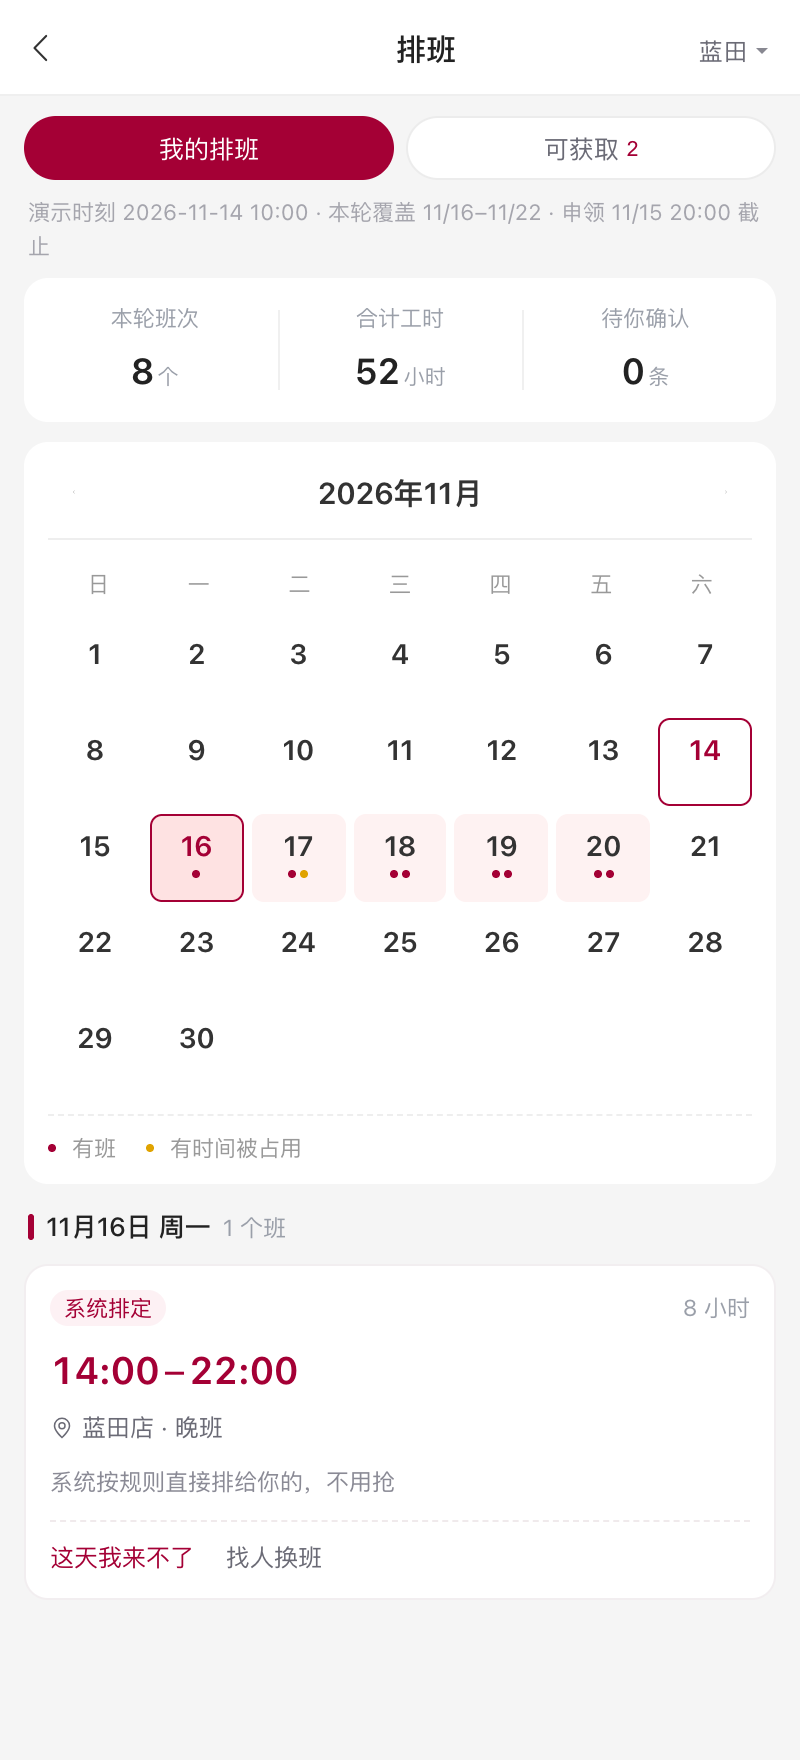
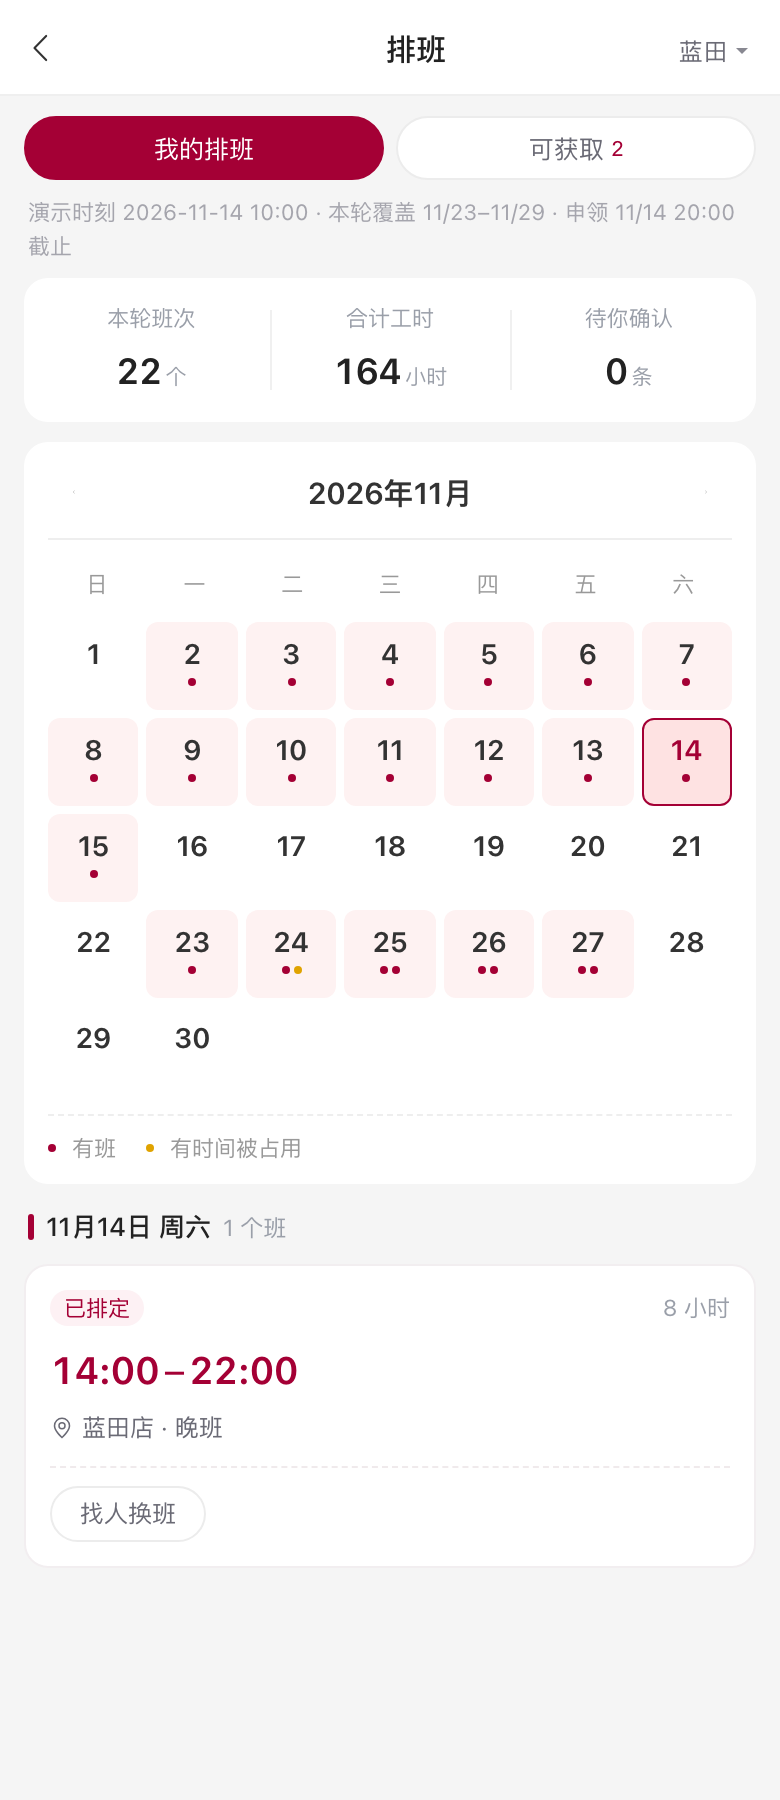
文档 6.5 移动端 16 张截图全部重截并核对图注
- 截图按现有种子状态重取：申领弹层改用蓝田周日 11-29（周六通班种子已登记、按钮变拿不了，弹层点不出）
- 图注与画面核对修正三处：抢确认是两条当场检查不是三条；非全推拿可获取屏只显示早/晚班（通班/加场在周末日期）；叶青可获取显示的是他那档窗口已开的周期时段，不是三档卡
- 其余 13 张画面与图注一致

diff --git a/src/views/hr-schedule/sections/HS65Mobile.vue b/src/views/hr-schedule/sections/HS65Mobile.vue
@@ -109,8 +109,8 @@
 
       <h4 class="h4sub">非全推拿师（门店）——先到先得 + 申领混合</h4>
       <DocScreens mode="phone" :images="[
-        { src: mTuinaPtPick, label: '可获取：早/晚班先到先得 + 通班申领 + 临时加场，一张卡一种拿法' },
-        { src: mGrabSheet, label: '抢确认：当场生效的三条检查（不撞车 / 剩余名额），先到先得点了就成' }
+        { src: mTuinaPtPick, label: '可获取：早/晚班先到先得——能抢的给按钮，满员当场说原因；通班申领、临时加场在周末那几天' },
+        { src: mGrabSheet, label: '抢确认：当场检查两条（和你已有班次不撞车 / 名额在你的档位），先到先得点了就成' }
       ]" />
 
       <h4 class="h4sub">非全推拿师（兴隆湖）——分类必选数量：A 类每天至少 1 条</h4>
@@ -121,7 +121,7 @@
 
       <h4 class="h4sub">非全客户经理（兴隆湖）——三档错峰累计开放</h4>
       <DocScreens mode="phone" :images="[
-        { src: mKejingPtPick, label: '可获取：周期时段三档——本店非全客经先开，后面的档还没到窗口；额度进度按兴隆湖自己的算' }
+        { src: mKejingPtPick, label: '可获取：周期时段按档位窗口开放——本店非全客经这档已开；一条能抢、一条和自己班次撞了当场说原因' }
       ]" />
 
       <h4 class="h4sub">被安排顶班的人——补位确认落在班次卡上</h4>
